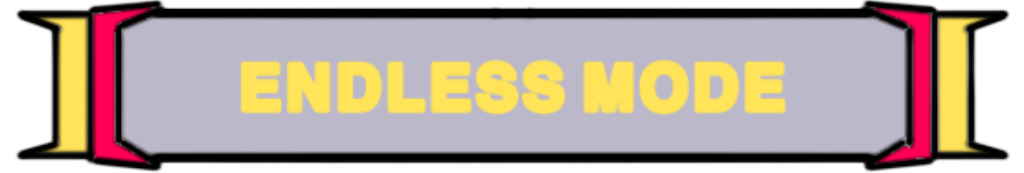
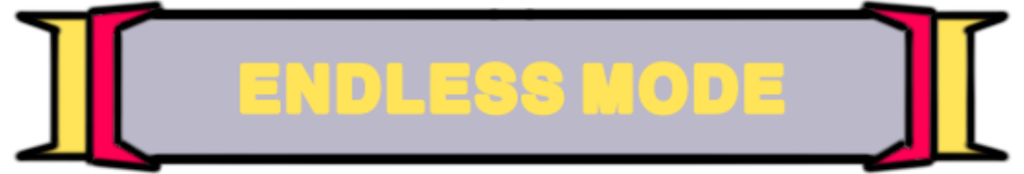
update

diff --git a/Menu_Draw.java b/Menu_Draw.java
@@ -1,13 +1,12 @@
 
 //draw menu by pure
 
-import java.awt.Dimension;
 import java.awt.Graphics;
 
 import javax.swing.JFrame;
 
 public class Menu_Draw extends JFrame{
-    Dimension ScreenSize;
+    private DataBase database = new DataBase();
     public int width, height;
     private Graphics g;
     private DataBase_Menu img = new DataBase_Menu(); 
@@ -24,36 +23,36 @@ public class Menu_Draw extends JFrame{
 }
     //start menu
     public void drawStartMenu(){
-        g.drawImage(img.getBg(), -30, 0, null);
+        g.drawImage(img.getBg(), 0, 0, (int)database.getScreen().getWidth(), (int)database.getScreen().getHeight(), null);
         if (DataBase_Menu.button == 0){
-            g.drawImage(img.getPlay(),720, 470, null);
-            g.drawImage(img.getExit(), 775, 800, null);
+            g.drawImage(img.getPlay(), (int)database.getScreen().getWidth()/2 - img.getPlay().getWidth(null)/2, 470, null);
+            g.drawImage(img.getExit(), (int)database.getScreen().getWidth()/2 - img.getExit().getWidth(null)/2, 800, null);
         }
         if (DataBase_Menu.button == 1){
-            g.drawImage(img.getPlayHovered(),720, 470, null);
-            g.drawImage(img.getExit(), 775, 800, null);
+            g.drawImage(img.getPlayHovered(),(int)database.getScreen().getWidth()/2 - img.getPlayHovered().getWidth(null)/2, 470, null);
+            g.drawImage(img.getExit(), (int)database.getScreen().getWidth()/2 - img.getExit().getWidth(null)/2, 800, null);
         }
         if (DataBase_Menu.button == 2){
-            g.drawImage(img.getPlay(), 720, 470, null);
-            g.drawImage(img.getExitHovered(), 775, 800, null);
+            g.drawImage(img.getPlay(), (int)database.getScreen().getWidth()/2 - img.getPlay().getWidth(null)/2, 470, null);
+            g.drawImage(img.getExitHovered(), (int)database.getScreen().getWidth()/2 - img.getExitHovered().getWidth(null)/2, 800, null);
 
         }
     }
-    //mode menu 
+    //mode menu
     public void drawModeMenu(){
         
-        g.drawImage(img.getBgMode(), -30, 0, null);
+        g.drawImage(img.getBgMode(), 0, 0, (int)database.getScreen().getWidth(), (int)database.getScreen().getHeight(), null);
         if (DataBase_Menu.button == 0){
-            g.drawImage(img.getNormal(),450, 100, null);
-            g.drawImage(img.getEndless(),450, 400, null);
+            g.drawImage(img.getNormal(), (int)database.getScreen().getWidth()/2 - img.getNormal().getWidth(null)/2, 100, null);
+            g.drawImage(img.getEndless(),(int)database.getScreen().getWidth()/2 - img.getEndless().getWidth(null)/2, 400, null);
         }
         if (DataBase_Menu.button == 1){
-            g.drawImage(img.getNormalHovered(),450, 100, null);
-            g.drawImage(img.getEndless(),450, 400, null);
+            g.drawImage(img.getNormalHovered(), (int)database.getScreen().getWidth()/2 - img.getNormalHovered().getWidth(null)/2, 100, null);
+            g.drawImage(img.getEndless(),(int)database.getScreen().getWidth()/2 - img.getEndless().getWidth(null)/2, 400, null);
         }
         if (DataBase_Menu.button == 2){
-            g.drawImage(img.getNormal(),450, 100, null);
-            g.drawImage(img.getEndlessHovered(),450, 400, null);
+            g.drawImage(img.getNormal(),(int)database.getScreen().getWidth()/2 - img.getNormal().getWidth(null)/2, 100, null);
+            g.drawImage(img.getEndlessHovered(),(int)database.getScreen().getWidth()/2 - img.getEndlessHovered().getWidth(null)/2, 400, null);
         }
     }
     public void update(Graphics g) {

diff --git a/DataBase_Menu.java b/DataBase_Menu.java
@@ -16,22 +16,22 @@ public class DataBase_Menu{
     };
 
     //BG
-    private final Image bg = new ImageIcon(getClass().getResource("/Img/Menu/title.png")).getImage();
-    private final Image bg_mode = new ImageIcon(getClass().getResource("/Img/Menu/Mode_select.png")).getImage();
+    private final Image bg = new ImageIcon(getClass().getResource("/Img/Back Ground/ocean war.png")).getImage();
+    private final Image bg_mode = new ImageIcon(getClass().getResource("/Img/Back Ground/mode_wall.png")).getImage();
 
     //Button
-    private final Image play = new ImageIcon(getClass().getResource("/Img/Menu/Play.png")).getImage().getScaledInstance((int)(1024 / 2), (int)(768 / 2), Image.SCALE_DEFAULT);
-    private final Image exit = new ImageIcon(getClass().getResource("/Img/Menu/Exit.png")).getImage().getScaledInstance((int)(1024 / 2.5), (int)(768 / 2.5), Image.SCALE_DEFAULT);
-    private final Image credit = new ImageIcon(getClass().getResource("Img/Menu/Credit.png")).getImage().getScaledInstance((int)(768 / 4), (int)(768 / 4), Image.SCALE_DEFAULT);
+    private final Image play = new ImageIcon(getClass().getResource("/Img/Menu/Play.png")).getImage().getScaledInstance((int)(1024 / 2), (int)(768 / 2), Image.SCALE_SMOOTH);
+    private final Image exit = new ImageIcon(getClass().getResource("/Img/Menu/Exit.png")).getImage().getScaledInstance((int)(1024 / 2.5), (int)(768 / 2.5), Image.SCALE_SMOOTH);
+    private final Image credit = new ImageIcon(getClass().getResource("Img/Menu/Credit.png")).getImage().getScaledInstance((int)(768 / 4), (int)(768 / 4), Image.SCALE_SMOOTH);
 
     //mode
     private final Image normal = new ImageIcon(getClass().getResource("/Img/Menu/NORMAL.png")).getImage();
     private final Image endless = new ImageIcon(getClass().getResource("/Img/Menu/ENDLESS.png")).getImage();
 
     //interact mouse
-    private final Image play_tp = new ImageIcon(getClass().getResource("/Img/Menu/Play_hovered.png")).getImage().getScaledInstance((int)(1024 / 2), (int)(768 / 2), Image.SCALE_DEFAULT);
-    private final Image exit_tp = new ImageIcon(getClass().getResource("/Img/Menu/Exit_hovered.png")).getImage().getScaledInstance((int)(1024 / 2.5), (int)(768 / 2.5), Image.SCALE_DEFAULT);
-    private final Image credit_tp = new ImageIcon(getClass().getResource("/Img/Menu/Credit_hovered.png")).getImage().getScaledInstance((int)(768 / 4), (int)(768 / 4), Image.SCALE_DEFAULT);
+    private final Image play_tp = new ImageIcon(getClass().getResource("/Img/Menu/Play_hovered.png")).getImage().getScaledInstance((int)(1024 / 2), (int)(768 / 2), Image.SCALE_SMOOTH);
+    private final Image exit_tp = new ImageIcon(getClass().getResource("/Img/Menu/Exit_hovered.png")).getImage().getScaledInstance((int)(1024 / 2.5), (int)(768 / 2.5), Image.SCALE_SMOOTH);
+    private final Image credit_tp = new ImageIcon(getClass().getResource("/Img/Menu/Credit_hovered.png")).getImage().getScaledInstance((int)(768 / 4), (int)(768 / 4), Image.SCALE_SMOOTH);
     private final Image normal_tp = new ImageIcon(getClass().getResource("/Img/Menu/NORMAL_hovered.png")).getImage();
     private final Image endless_tp = new ImageIcon(getClass().getResource("/Img/Menu/ENDLESS_hovered.png")).getImage();
 

diff --git a/Menu.java b/Menu.java
@@ -9,9 +9,10 @@ import java.awt.event.*;
 // JPanel Main_Game
 public class Menu extends JPanel implements ActionListener {
     private Timer timer;
+    private DataBase database = new DataBase();
     //menu
     private Menu_Draw ddraw;
-    private DataBase_Menu data = new DataBase_Menu();
+    // private DataBase_Menu data = new DataBase_Menu();
     public static enum STATE{
         START,
         MENU,
@@ -27,9 +28,8 @@ public class Menu extends JPanel implements ActionListener {
         setOpaque(false);
         setFocusable(true);
         ddraw = new Menu_Draw();
-        data = new DataBase_Menu();
-        setSize(data.getWidthBG(), data.getWidthBG());
-        
+        // data = new DataBase_Menu();
+        setSize((int)database.getScreen().getWidth(), (int)database.getScreen().getHeight());
     }
 
     // Paint
